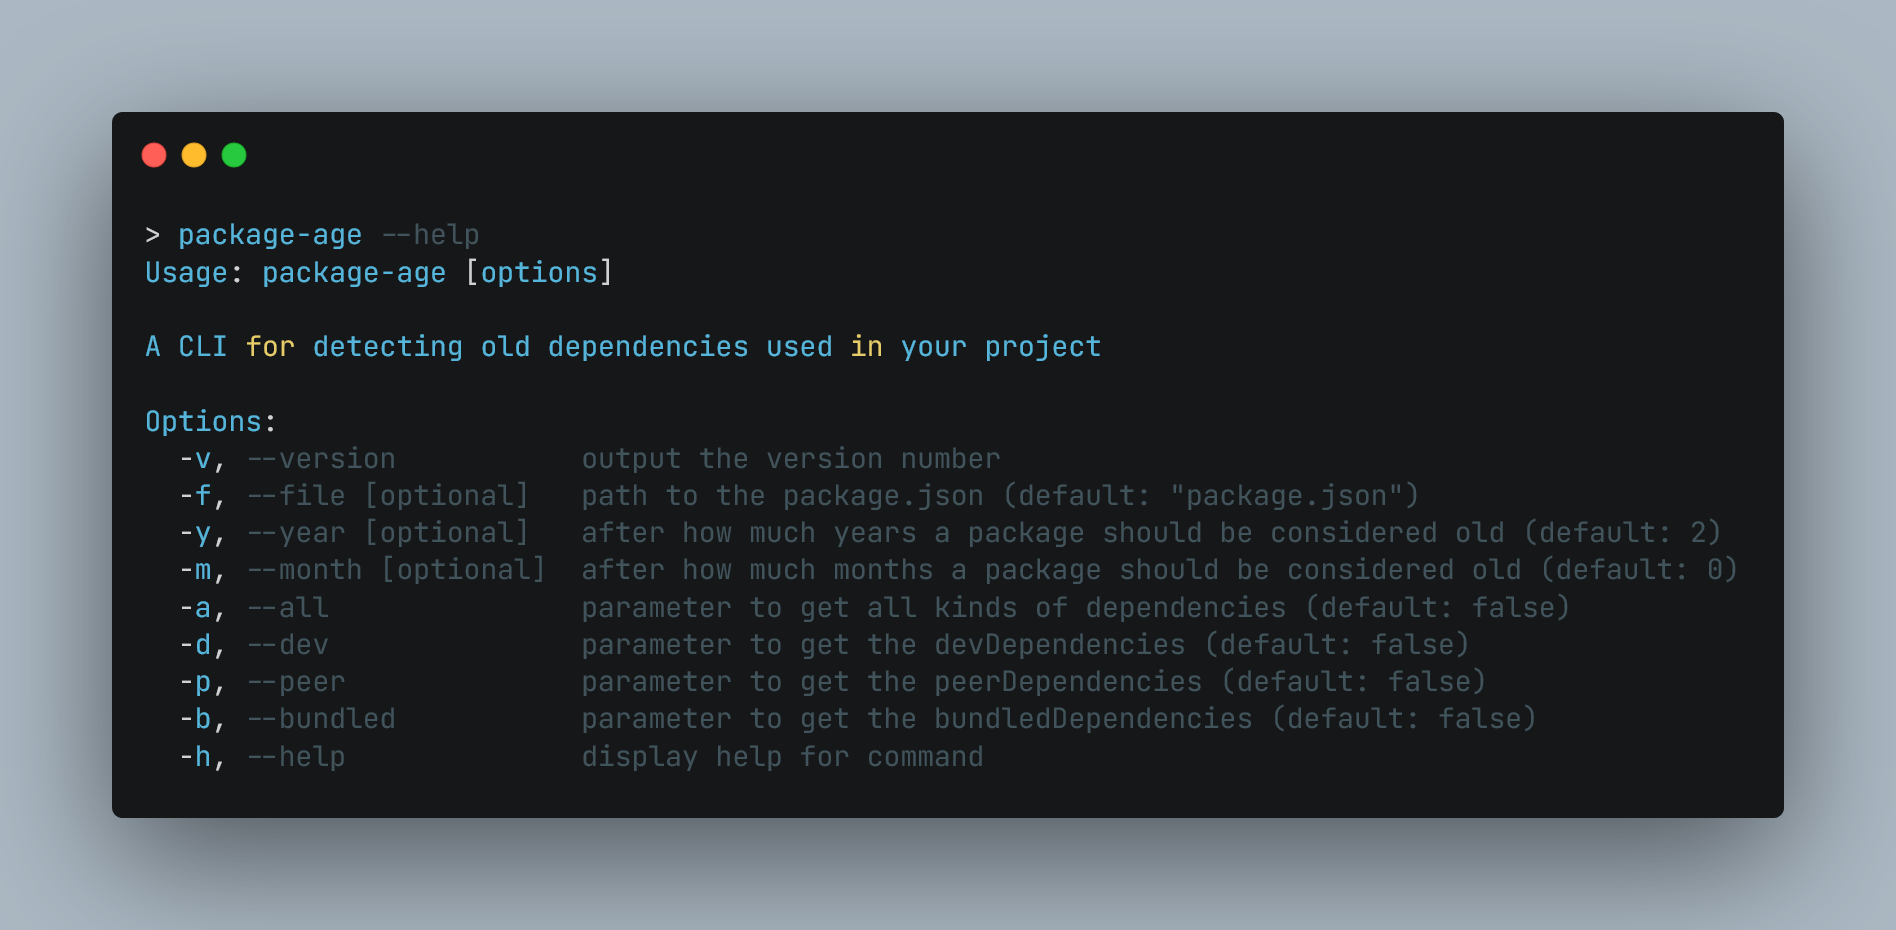
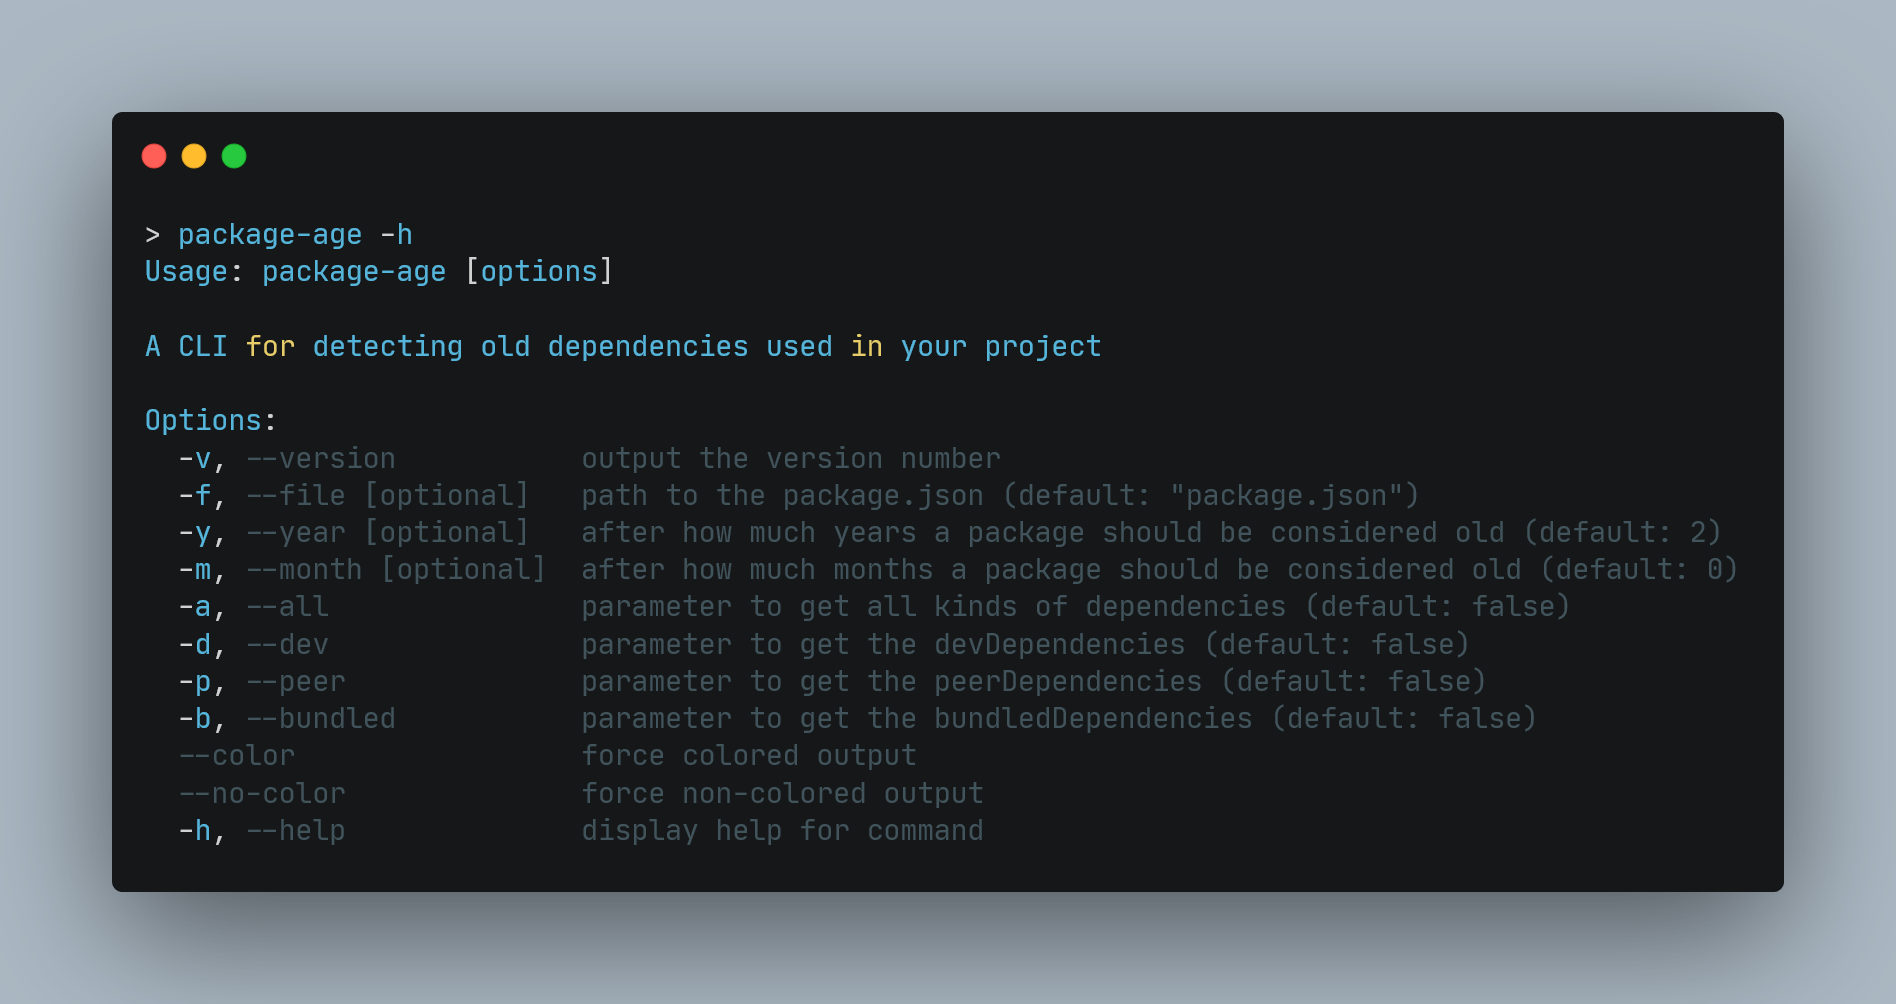
:sparkles: Add an option to specify whether the output should be colored (fix #2)

diff --git a/cli.js b/cli.js
@@ -36,6 +36,11 @@ program
   .option('-d, --dev', 'parameter to get the devDependencies', false)
   .option('-p, --peer', 'parameter to get the peerDependencies', false)
   .option('-b, --bundled', 'parameter to get the bundledDependencies', false)
+
+  // The following two options, if present, are automatically detected by chalk
+  // For more information see: https://github.com/chalk/supports-color/blob/v7.1.0/index.js#L8-L19
+  .option('--color', 'force colored output')
+  .option('--no-color', 'force non-colored output')
   .parse(process.argv);
 
 async function cli() {
